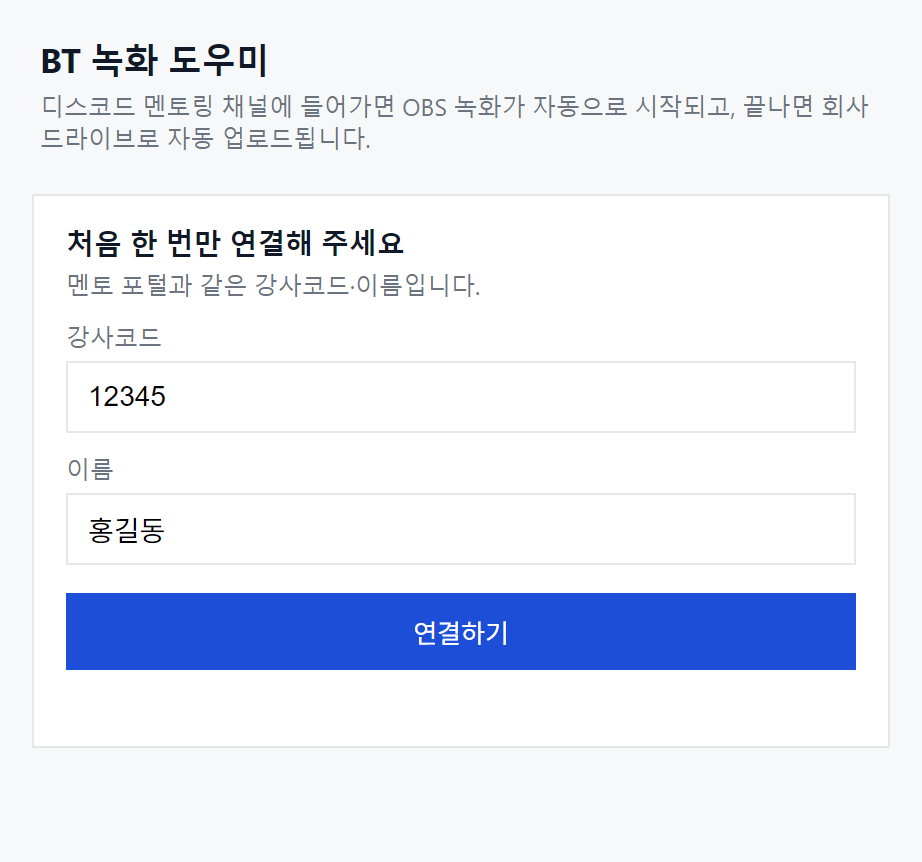
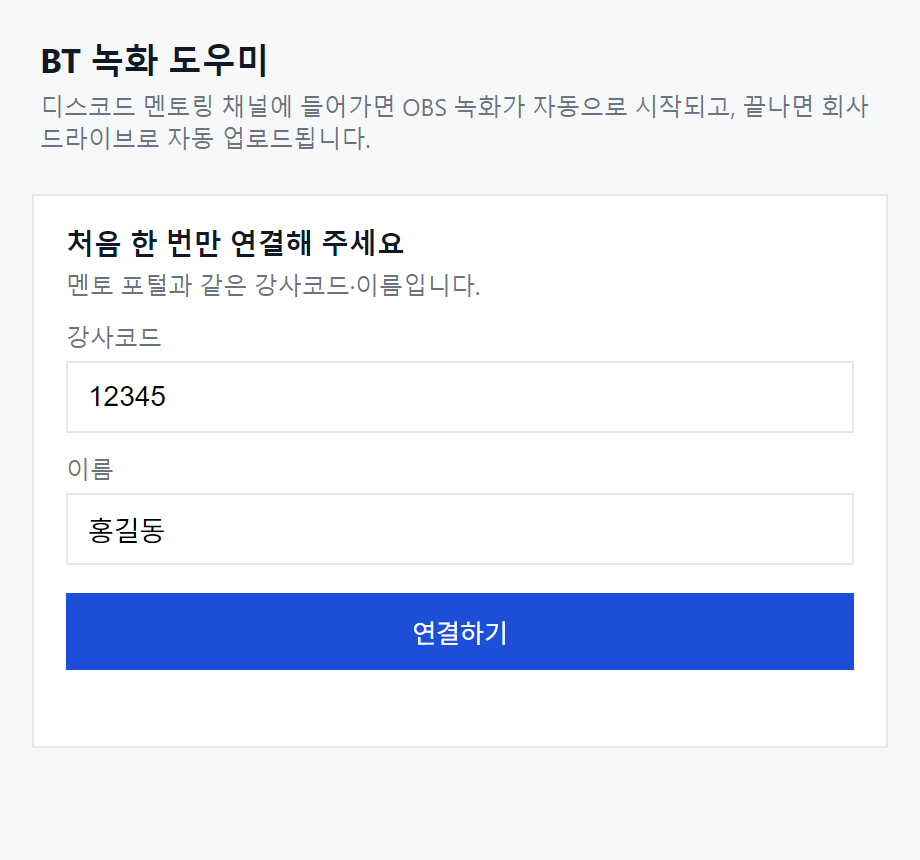
docs: 녹화 준비 4단계로 정리(화면 소스·오디오는 도우미가 자동 — 소리 문제는 접는 카드로), 도우미 캡처 최신화

diff --git a/step-2-preparation.html b/step-2-preparation.html
@@ -61,7 +61,7 @@
         <div class="part-hero">
           <div class="ph-top">
             <span class="ph-num">SETUP</span>
-            <span class="ph-when">개강 전주 수요일 전까지 · ⏰ 약 15분</span>
+            <span class="ph-when">개강 전주 수요일 전까지 · ⏰ 약 10분</span>
           </div>
           <h2>멘토링 녹화 준비</h2>
           <p class="ph-desc">
@@ -98,10 +98,8 @@
             <div class="timeline compact">
               <div class="tl-item"><div class="tl-num">1</div><div class="tl-body"><div class="tl-title">OBS Studio 설치</div></div></div>
               <div class="tl-item"><div class="tl-num">2</div><div class="tl-body"><div class="tl-title">전용 프로파일 가져오기</div></div></div>
-              <div class="tl-item"><div class="tl-num">3</div><div class="tl-body"><div class="tl-title">화면 캡처 소스 추가</div></div></div>
-              <div class="tl-item"><div class="tl-num">4</div><div class="tl-body"><div class="tl-title">오디오 세팅 (목소리 누락 방지)</div></div></div>
-              <div class="tl-item"><div class="tl-num">5</div><div class="tl-body"><div class="tl-title">BT 녹화 도우미 설치·연결</div></div></div>
-              <div class="tl-item"><div class="tl-num">6</div><div class="tl-body"><div class="tl-title">🎯 테스트 녹화 → <a href="step-3-missions.html#mission-1">STEP 3 · MISSION 1</a></div></div></div>
+              <div class="tl-item"><div class="tl-num">3</div><div class="tl-body"><div class="tl-title">BT 녹화 도우미 설치·연결</div></div></div>
+              <div class="tl-item"><div class="tl-num">4</div><div class="tl-body"><div class="tl-title">🎯 테스트 녹화 → <a href="step-3-missions.html#mission-1">STEP 3 · MISSION 1</a></div></div></div>
             </div>
           </div>
         </div>
@@ -147,56 +145,8 @@
             </ul>
             <div class="alert alert-info">
               <span class="alert-icon">💡</span>
-              <span>위 설정으로 1080p/30fps, 고품질 녹화가 모두 설정됩니다. 녹화 저장 위치는 도우미가 알아서 정하니 바꾸지 않으셔도 됩니다.</span>
+              <span>위 설정으로 1080p/30fps, 고품질 녹화가 모두 설정됩니다.<br>화면·마이크·컴퓨터 소리 연결과 녹화 저장 위치는 다음 단계의 도우미가 알아서 맞추니 따로 손대지 않으셔도 됩니다.</span>
             </div>
-          </div>
-        </div>
-
-        <div class="step-card">
-          <div class="step-body">
-            <h3>3단계 · 화면 캡처 소스 추가</h3>
-            <ul class="bullet-list">
-              <li><span class="li-main">OBS '소스 목록(Sources)' 패널 하단의 더하기 버튼(+) 클릭 &gt; 화면 캡처(디스플레이 캡처) 선택</span></li>
-              <li><span class="li-main">디스플레이 캡처 &gt; 디스코드가 표시될 디스플레이 선택</span></li>
-              <li><span class="li-main">OBS 하단 오디오 믹서에서 동작 확인</span>
-                <ul>
-                  <li>'데스크톱 오디오' : 디스코드 소리 재생 시 초록색 바가 움직이면 완료</li>
-                  <li>'마이크' : 말할 때 초록색 바가 움직이면 완료</li>
-                </ul>
-              </li>
-            </ul>
-            <div class="alert alert-info">
-              <span class="alert-icon">💡</span>
-              <span>캡처 화면이 잘리거나 크기가 맞지 않는 경우:<br>소스 우클릭 &gt; 변환 &gt; '화면에 맞추기'를 선택하면 전체 화면 크기에 맞게 조정됩니다.</span>
-            </div>
-          </div>
-        </div>
-
-        <div class="step-card">
-          <div class="step-body">
-            <h3 id="audio-setup">4단계 · 오디오 세팅 (목소리 누락 방지)</h3>
-            <div style="font-weight:700;font-size:13px;color:var(--accent);margin-bottom:8px;">① 마이크 장치 지정</div>
-            <ul class="bullet-list" style="margin-bottom:18px;">
-              <li><span class="li-main">OBS 오디오 믹서의 <strong>'마이크/Aux'</strong> 텍스트 클릭 &gt; 속성 &gt; 장치</span></li>
-              <li><span class="li-main">'기본 장치' 대신 <strong>실제 사용하는 마이크</strong>를 직접 지정합니다.</span>
-                <ul>
-                  <li>'기본 장치'는 엉뚱한 장치를 잡아 소리가 아예 들어오지 않을 수 있습니다.</li>
-                  <li>여기서 지정한 마이크는 <strong>디스코드에서 쓰는 마이크와 같아야</strong> 합니다.</li>
-                </ul>
-              </li>
-            </ul>
-
-            <div style="font-weight:700;font-size:13px;color:var(--accent);margin-bottom:8px;">② 오디오 모니터링 끄기</div>
-            <ul class="bullet-list">
-              <li><span class="li-main">오디오 믹서 하단 'Options' &gt; <strong>오디오 고급 설정</strong> &gt; '오디오 모니터링'</span></li>
-              <li><span class="li-main">마이크/Aux와 데스크톱 오디오 둘 다 <strong>'모니터링 끔'</strong>으로 설정합니다.</span></li>
-            </ul>
-
-            <div style="font-weight:700;font-size:13px;color:var(--accent);margin:22px 0 8px;">이럴 땐 이렇게</div>
-            <ul class="bullet-list">
-              <li><span class="li-main"><strong>녹화본에 내 목소리가 안 담긴 경우</strong> : 마이크 장치를 직접 지정하고, 모니터링을 '끔'으로 설정</span></li>
-              <li><span class="li-main"><strong>소리가 울리는 경우(에코)</strong> : 모니터링을 '끔'으로 설정</span></li>
-            </ul>
           </div>
         </div>
 
@@ -207,7 +157,7 @@
 
         <div class="step-card toggle-card" data-os="windows">
           <div class="toggle-head" onclick="toggleCard(this)" role="button" tabindex="0" aria-expanded="false">
-            <h3 id="recorder-windows">🖥 5단계 · BT 녹화 도우미 설치 (Windows)
+            <h3 id="recorder-windows">🖥 3단계 · BT 녹화 도우미 설치 (Windows)
               <span class="th-hint">설치 파일을 실행하면 끝납니다</span>
             </h3>
             <span class="th-icon">+</span>
@@ -230,7 +180,7 @@
 
         <div class="step-card toggle-card" data-os="mac">
           <div class="toggle-head" onclick="toggleCard(this)" role="button" tabindex="0" aria-expanded="false">
-            <h3 id="recorder-mac">🍎 5단계 · BT 녹화 도우미 설치 (macOS)
+            <h3 id="recorder-mac">🍎 3단계 · BT 녹화 도우미 설치 (macOS)
               <span class="th-hint">터미널에 한 줄 붙여 넣으면 끝납니다</span>
             </h3>
             <span class="th-icon">+</span>
@@ -253,7 +203,7 @@
 
         <div class="step-card">
           <div class="step-body">
-            <h3 id="recorder-connect">5단계 이어서 · 도우미 연결하기 (공통)</h3>
+            <h3 id="recorder-connect">3단계 이어서 · 도우미 연결하기 (공통)</h3>
             <ul class="bullet-list">
               <li><span class="li-main">도우미 창에 멘토 포털에 로그인할 때 쓰는 <strong>강사코드와 이름</strong>을 넣고 [연결하기]를 누릅니다.</span>
                 <ul>
@@ -295,6 +245,34 @@
                 <br>업로드가 끝날 때까지 PC를 몇 분 켜 두시는 게 좋습니다. 꺼 버렸다면 다음에 켤 때 이어서 올라갑니다.</span>
             </div>
             <img src="recorder-popup-record.png" alt="녹화가 안 되고 있다는 빨간 안내 창" class="step-img" style="margin-top:12px;max-width:420px;">
+          </div>
+        </div>
+
+        <div class="step-card toggle-card">
+          <div class="toggle-head" onclick="toggleCard(this)" role="button" tabindex="0" aria-expanded="false">
+            <h3 id="audio-setup">녹화에 소리가 안 담길 때
+              <span class="th-hint">테스트 녹화에서 '조용함'이 나오면 확인합니다</span>
+            </h3>
+            <span class="th-icon">+</span>
+          </div>
+          <div class="toggle-body">
+          <div class="step-body">
+            <p style="font-size:13px;color:var(--text3);margin-bottom:14px;">도우미가 화면·마이크·컴퓨터 소리를 자동으로 연결하지만, 마이크가 여러 개이거나 소리가 울리면 OBS에서 직접 맞춰 주세요.</p>
+            <div style="font-weight:700;font-size:13px;color:var(--accent);margin-bottom:8px;">① 마이크 장치 지정 (내 목소리가 안 담길 때)</div>
+            <ul class="bullet-list" style="margin-bottom:18px;">
+              <li><span class="li-main">OBS 오디오 믹서의 <strong>'마이크/Aux'</strong> 텍스트 클릭 &gt; 속성 &gt; 장치</span></li>
+              <li><span class="li-main">'기본 장치' 대신 <strong>디스코드에서 쓰는 마이크</strong>를 직접 지정합니다.</span></li>
+            </ul>
+            <div style="font-weight:700;font-size:13px;color:var(--accent);margin-bottom:8px;">② 오디오 모니터링 끄기 (소리가 울릴 때)</div>
+            <ul class="bullet-list">
+              <li><span class="li-main">오디오 믹서 하단 'Options' &gt; <strong>오디오 고급 설정</strong> &gt; '오디오 모니터링'</span></li>
+              <li><span class="li-main">마이크/Aux와 데스크톱 오디오 둘 다 <strong>'모니터링 끔'</strong>으로 설정합니다.</span></li>
+            </ul>
+            <div class="alert alert-info" style="margin-top:14px;">
+              <span class="alert-icon">💡</span>
+              <span>맞춘 뒤 도우미에서 [테스트 녹화 (10초)]를 다시 눌러 확인해 주세요.</span>
+            </div>
+          </div>
           </div>
         </div>
 

diff --git a/step-3-missions.html b/step-3-missions.html
@@ -148,7 +148,7 @@
                 <div class="tl-body">
                   <div class="tl-title">결과 확인</div>
                   <div class="tl-desc">녹화 파일 · 마이크 · 컴퓨터 소리가 모두 ✓이면 끝입니다. 테스트 녹화는 회사 드라이브에 자동으로 올라가 따로 제출하지 않으셔도 됩니다.
-                    <br>마이크나 컴퓨터 소리가 '조용함'으로 나오면 <a href="step-2-preparation.html#audio-setup">STEP 2 · 오디오 세팅</a>을 확인하고 다시 눌러 주세요.
+                    <br>마이크나 컴퓨터 소리가 '조용함'으로 나오면 <a href="step-2-preparation.html#audio-setup">STEP 2 · 소리가 안 담길 때</a>를 확인하고 다시 눌러 주세요.
                     <img src="recorder-test-result.png" alt="테스트 녹화 결과 — 파일·마이크·컴퓨터 소리 확인" class="step-img" style="margin-top:12px;max-width:420px;">
                   </div>
                 </div>

diff --git a/index.html b/index.html
@@ -320,7 +320,7 @@
                 <li>오디오 믹서 톱니바퀴 → 고급 오디오 속성 → 마이크/Aux와 데스크톱 오디오를 모두 <strong>'모니터링 끔'</strong>으로 설정</li>
                 <li>마이크/Aux → 속성 → 장치를 '기본 장치'가 아닌 <strong>실제 쓰는 마이크</strong>로 지정</li>
               </ul>
-              자세한 내용은 <a href="step-2-preparation.html#audio-setup">STEP 2 · 오디오 세팅</a>에서 확인하실 수 있습니다.
+              자세한 내용은 <a href="step-2-preparation.html#audio-setup">STEP 2 · 소리가 안 담길 때</a>에서 확인하실 수 있습니다.
             </div></div>
           </div>
 

diff --git a/step-5-mentoring.html b/step-5-mentoring.html
@@ -122,7 +122,7 @@
             <div class="alert alert-info">
               <span class="alert-icon">🎙</span>
               <span>멘토님 목소리가 <strong>수업에서는 들리는데 녹화본에만 없다면</strong> 디스코드가 아니라 OBS 설정 문제입니다.
-                <a href="step-2-preparation.html#audio-setup">STEP 2 · 오디오 세팅</a>을 확인해 주세요.</span>
+                <a href="step-2-preparation.html#audio-setup">STEP 2 · 소리가 안 담길 때</a>을 확인해 주세요.</span>
             </div>
           </div>
         </div>
